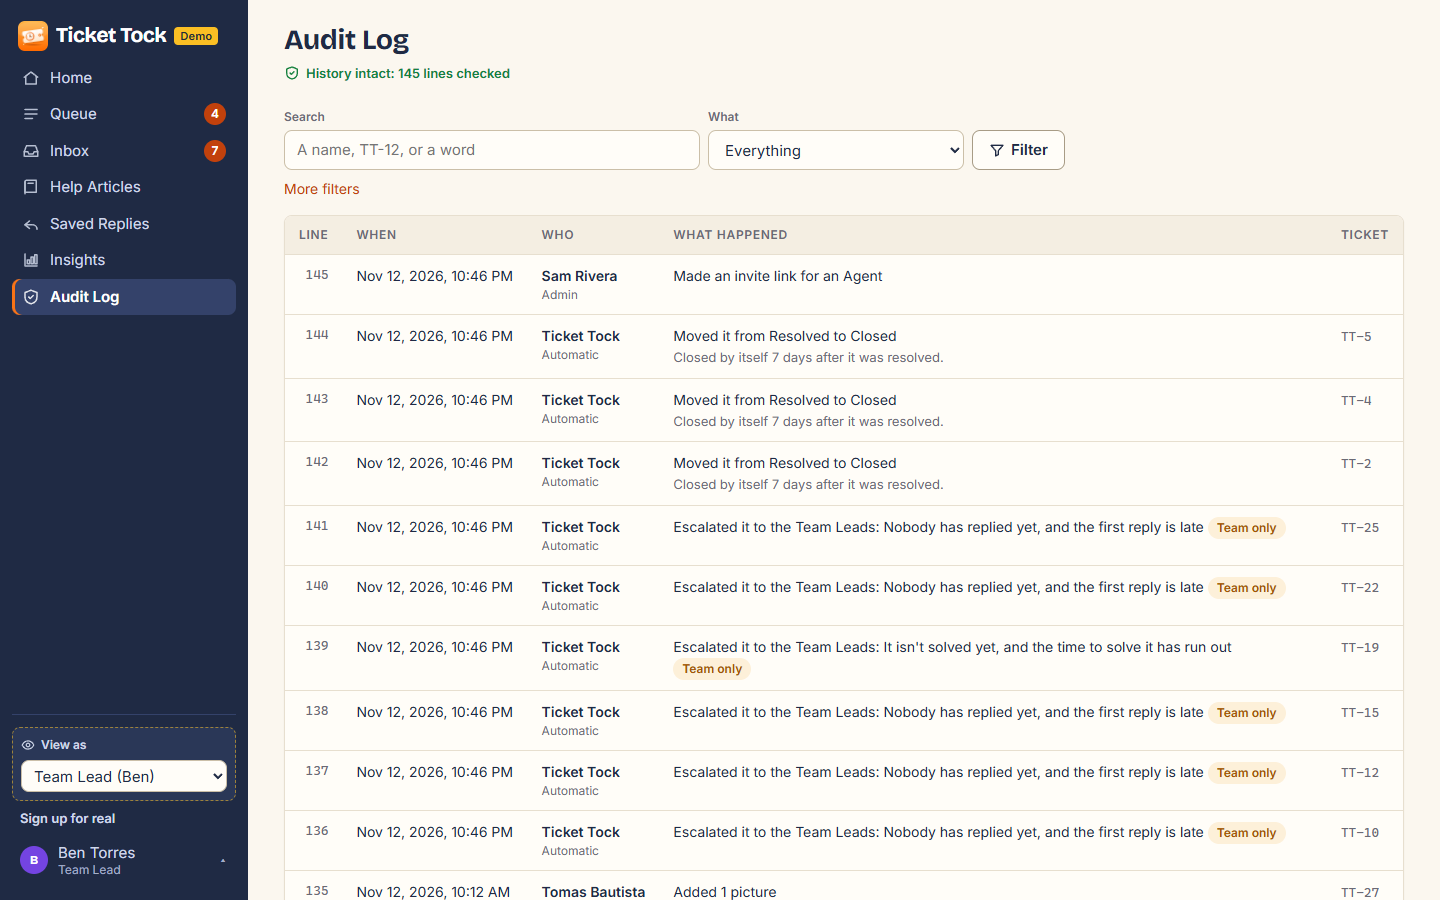
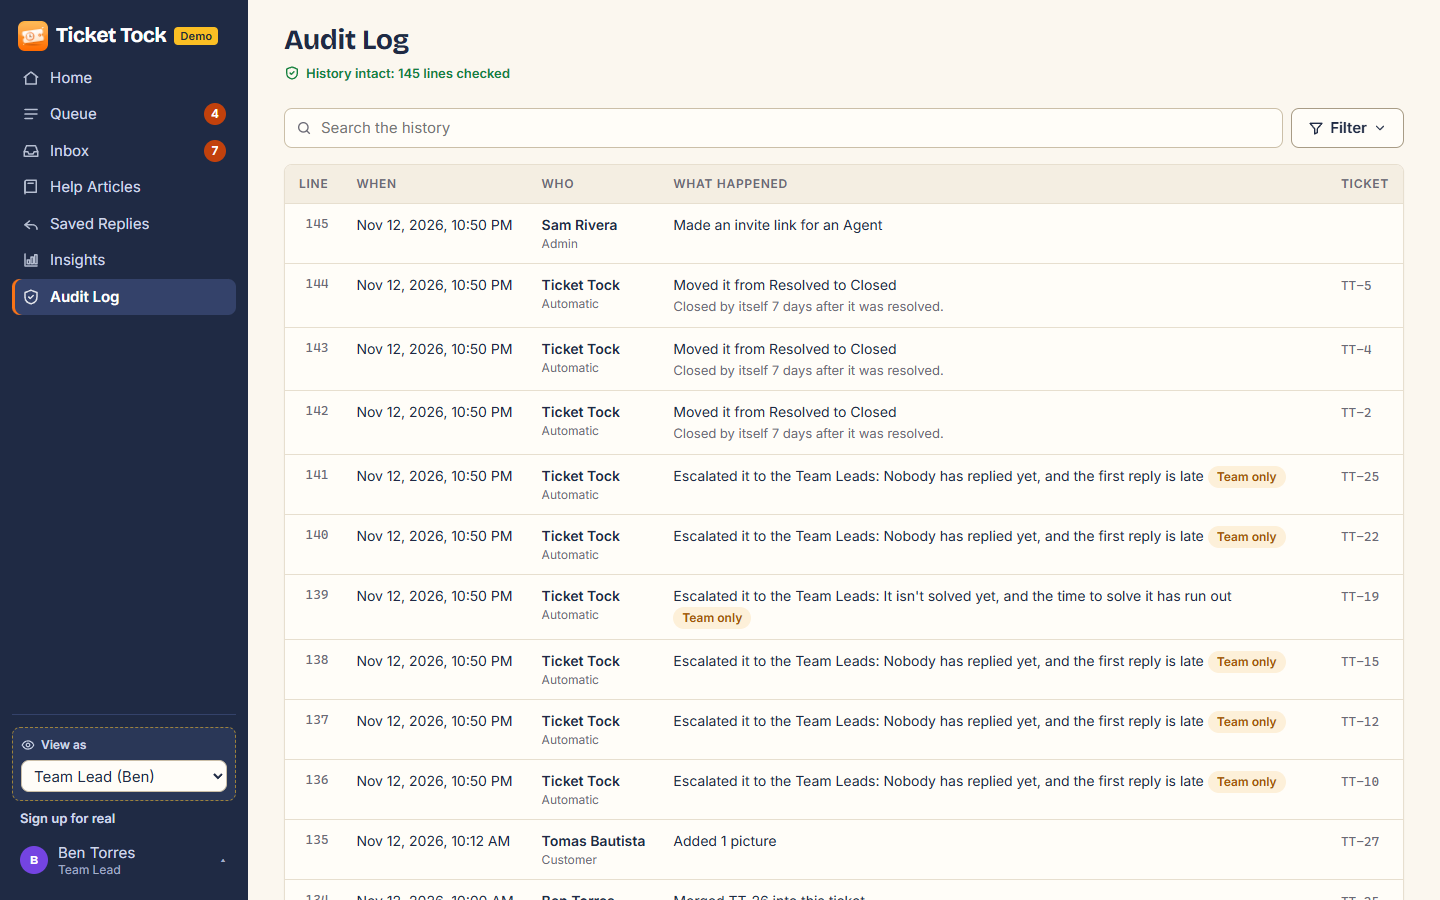
Same pills and search row on every page
- Insights: the period switch (7 / 30 / 90 days) is pill tabs under the title.
- Audit Log: a search box and one Filter dropdown (What, Who, Ticket, From, To)
  with a count, Clear and Apply, replacing What + Filter + More filters.
- The search row is one shared macro (_search.html) used by the Queue and the
  Audit Log. The old segmented and More filters styles are gone.
- New README picture audit-filter.png; all pictures retaken.

diff --git a/tickettock/static/style.css b/tickettock/static/style.css
@@ -621,7 +621,6 @@ a.stat:hover { border-color: var(--accent); }
   display: flex; flex-wrap: wrap; gap: 0.5rem; align-items: flex-end; margin-bottom: 1rem;
 }
 .filters label { display: grid; gap: 0.25rem; font-size: 0.75rem; font-weight: 600; color: var(--muted); flex: 1 1 10rem; max-width: 16rem; }
-.filters .search-label { flex: 2 1 16rem; max-width: 26rem; }
 .filters input, .filters select { font-size: 0.9375rem; font-weight: 400; color: var(--text); }
 .filters .form-actions { flex: none; }
 .pager { display: flex; gap: 0.5rem; align-items: center; justify-content: center; margin-top: 1rem; font-size: 0.875rem; }
@@ -914,11 +913,6 @@ input[type="file"]::file-selector-button {
 
 /* ---------- Insights ---------- */
 
-.segmented { display: inline-flex; border: 1px solid var(--control-border); border-radius: var(--radius); overflow: hidden; background: var(--surface); }
-.segmented a { display: inline-flex; align-items: center; height: 2.25rem; padding: 0 0.875rem; font-size: 0.875rem; font-weight: 600; color: var(--muted); text-decoration: none; }
-.segmented a + a { border-left: 1px solid var(--border); }
-.segmented a:hover { color: var(--text); background: var(--surface-2); }
-.segmented a[aria-current="page"] { background: var(--accent-soft); color: var(--accent-text); }
 .stat-unit { font-size: 1rem; color: var(--muted); }
 
 /* Chart colours: one series = blue; Sent and Solved = blue and orange (dataviz validator, light and dark). */
@@ -1099,13 +1093,8 @@ input[type="time"] { width: 9.5rem; max-width: 100%; }
 .day-pick input:checked + span { background: var(--accent); border-color: var(--accent); color: var(--on-accent); }
 .time-row { display: flex; flex-wrap: wrap; gap: 1rem; }
 
-/* Audit Log: the chain check as a small line under the title; compact filters. */
+/* Audit Log: the chain check as a small line under the title. */
 .chain-line { display: inline-flex; align-items: center; gap: 0.375rem; margin-top: 0.375rem; font-size: 0.8125rem; font-weight: 600; color: var(--positive); }
-.audit-filters { align-items: flex-end; }
-.more-filters { flex-basis: 100%; font-size: 0.875rem; }
-.more-filters summary { list-style: none; display: inline-block; }
-.more-filters summary::-webkit-details-marker { display: none; }
-.filters-more-row { display: flex; flex-wrap: wrap; gap: 0.5rem; margin-top: 0.5rem; }
 .page-head > div:first-child { flex: 1 1 24rem; min-width: 0; }  /* the title shares its row with the main button */
 
 /* An article: the text at a reading width, with a side column (Still stuck?, more articles). */
@@ -1140,7 +1129,7 @@ input[type="time"] { width: 9.5rem; max-width: 100%; }
 
 /* One row: the search box takes the room, then Filter, then the bookmark. */
 .filter-bar { align-items: center; }
-.queue-filters { flex-wrap: nowrap; align-items: center; margin-bottom: 0; }
+.search-row { flex-wrap: nowrap; align-items: center; margin-bottom: 0; }
 .search-field { position: relative; flex: 1; min-width: 0; }
 .search-field svg { position: absolute; left: 0.75rem; top: 50%; transform: translateY(-50%); color: var(--muted); pointer-events: none; }
 .search-field input { width: 100%; padding-left: 2.25rem; }
@@ -1156,10 +1145,13 @@ input[type="time"] { width: 9.5rem; max-width: 100%; }
   background: var(--accent); color: var(--on-accent); font-size: 0.75rem; font-weight: 700;
 }
 .filter-panel {
-  position: absolute; right: 0; top: calc(100% + 0.375rem); z-index: 20; width: min(18rem, calc(100vw - 2rem));
+  position: absolute; right: 0; top: calc(100% + 0.375rem); z-index: 20; width: min(20rem, calc(100vw - 2rem));
   display: grid; gap: 0.75rem; padding: 0.875rem; background: var(--surface);
   border: 1px solid var(--border); border-radius: var(--radius); box-shadow: var(--shadow-lifted);
 }
 .filters .filter-panel label { max-width: none; color: var(--text); }
 .filter-panel select { width: 100%; }
 .filter-panel .form-actions { justify-content: flex-end; }
+/* From and To side by side inside the Filter panel (Audit Log). */
+.filter-dates { display: grid; grid-template-columns: 1fr 1fr; gap: 0.5rem; }
+.filter-panel input { width: 100%; min-width: 0; }

diff --git a/tickettock/templates/tickets/queue.html b/tickettock/templates/tickets/queue.html
@@ -2,6 +2,7 @@
 {% from "_tickets.html" import ticket_card %}
 {% from "_icons.html" import icon %}
 {% from "_macros.html" import csrf %}
+{% from "_search.html" import search_row %}
 {% block title %}Queue - {{ APP_NAME }}{% endblock %}
 {% block content %}
   <div class="page-head">
@@ -18,39 +19,21 @@
   </nav>
 
   <div class="filter-bar">
-  {# One row: the search box, one Filter dropdown (Category and Priority inside), and the bookmark.
-     <details> opens without JavaScript; Enter in the search box searches (the first, unseen button). #}
+  {# One row: the search box, one Filter dropdown (Category and Priority inside), and the bookmark. #}
   {% set on = (1 if category else 0) + (1 if priority else 0) %}
-  <form method="get" class="filters queue-filters" role="search">
-    <button type="submit" class="visually-hidden" tabindex="-1">Search</button>
-    <input type="hidden" name="tab" value="{{ tab }}">
-    <label class="visually-hidden" for="queue-search">Search</label>
-    <div class="search-field">
-      {{ icon('search', 16) }}
-      <input type="search" id="queue-search" name="q" value="{{ q }}" placeholder="Search tickets" title="A number like TT-12, words from the subject, or a customer's name">
-    </div>
-    <details class="filter-menu" data-popover>
-      <summary class="button button-quiet{% if on %} is-on{% endif %}">{{ icon('filter', 16) }} Filter
-        {%- if on %} <span class="filter-count">{{ on }}<span class="visually-hidden"> on</span></span>{% endif %}
-        {{ icon('chevron-down', 14) }}</summary>
-      <div class="filter-panel">
-        <label class="field"><span class="field-label">Category</span>
-          <select name="category">
-            <option value="">All categories</option>
-            {% for row in categories %}<option value="{{ row.id }}"{% if category == row.id|string %} selected{% endif %}>{{ row.name }}</option>{% endfor %}
-          </select></label>
-        <label class="field"><span class="field-label">Priority</span>
-          <select name="priority">
-            <option value="">All priorities</option>
-            {% for key, name in priority_names.items() %}<option value="{{ key }}"{% if priority == key %} selected{% endif %}>{{ name }}</option>{% endfor %}
-          </select></label>
-        <div class="form-actions">
-          {% if on %}<a class="button button-quiet" href="{{ url_for('tickets.queue', tab=tab, q=q or none) }}">Clear</a>{% endif %}
-          <button class="button" type="submit">Apply</button>
-        </div>
-      </div>
-    </details>
-  </form>
+  {% call search_row('queue-search', q, 'Search tickets', on, url_for('tickets.queue', tab=tab, q=q or none),
+                     title="A number like TT-12, words from the subject, or a customer's name", hidden={'tab': tab}) %}
+    <label class="field"><span class="field-label">Category</span>
+      <select name="category">
+        <option value="">All categories</option>
+        {% for row in categories %}<option value="{{ row.id }}"{% if category == row.id|string %} selected{% endif %}>{{ row.name }}</option>{% endfor %}
+      </select></label>
+    <label class="field"><span class="field-label">Priority</span>
+      <select name="priority">
+        <option value="">All priorities</option>
+        {% for key, name in priority_names.items() %}<option value="{{ key }}"{% if priority == key %} selected{% endif %}>{{ name }}</option>{% endfor %}
+      </select></label>
+  {% endcall %}
   {# Save these filters as a view: a bookmark button beside Filter that opens a small panel. #}
   <details class="save-view" data-popover>
     <summary class="button button-quiet icon-only" title="Save these filters as a view">{{ icon('bookmark', 18) }}<span class="visually-hidden">Save these filters as a view</span></summary>

diff --git a/tickettock/templates/audit.html b/tickettock/templates/audit.html
@@ -1,6 +1,7 @@
 {% extends "base.html" %}
 {% from "_history.html" import what %}
 {% from "_icons.html" import icon %}
+{% from "_search.html" import search_row %}
 {% block title %}Audit Log - {{ APP_NAME }}{% endblock %}
 {% block content %}
   <div class="page-head">
@@ -23,34 +24,29 @@
       {{ problem }} Lines from there on can't be trusted. Tell the Admin.</span></p>
   {% endif %}
 
-  {# One search box and the kind of change; the rest folds away under More filters. #}
-  {% set more = shown.who or shown.ticket or shown.since or shown.until %}
-  <form method="get" class="filters audit-filters" role="search">
-    <label class="search-label">Search
-      <input type="search" name="q" value="{{ shown.q }}" placeholder="A name, TT-12, or a word"></label>
-    <label>What
+  {# The same row as the Queue: a search box, then one Filter dropdown with every other filter. #}
+  {% set on = [shown.what, shown.who, shown.ticket, shown.since, shown.until]|select|list|length %}
+  <div class="filter-bar">
+  {% call search_row('audit-search', shown.q, 'Search the history', on, url_for('audit.log', q=shown.q or none),
+                     title='A name, a ticket number like TT-12, or a word') %}
+    <label class="field"><span class="field-label">What</span>
       <select name="what">
         <option value="">Everything</option>
         {% for key, (title, verbs) in groups.items() %}<option value="{{ key }}"{% if shown.what == key %} selected{% endif %}>{{ title }}</option>{% endfor %}
       </select></label>
-    <div class="form-actions">
-      {% if shown.values()|select|list %}<a class="button button-quiet" href="{{ url_for('audit.log') }}">Clear</a>{% endif %}
-      <button class="button button-quiet" type="submit">{{ icon('filter', 16) }} Filter</button>
+    <label class="field"><span class="field-label">Who</span>
+      <select name="who">
+        <option value="">Everyone</option>
+        {% for name in names %}<option{% if shown.who == name %} selected{% endif %}>{{ name }}</option>{% endfor %}
+      </select></label>
+    <label class="field"><span class="field-label">Ticket</span>
+      <input type="text" name="ticket" value="{{ shown.ticket }}" placeholder="TT-12"></label>
+    <div class="filter-dates">
+      <label class="field"><span class="field-label">From</span> <input type="date" name="since" value="{{ shown.since }}"></label>
+      <label class="field"><span class="field-label">To</span> <input type="date" name="until" value="{{ shown.until }}"></label>
     </div>
-    <details class="more-filters"{% if more %} open{% endif %}>
-      <summary class="link-button">More filters</summary>
-      <div class="filters-more-row">
-        <label>Who
-          <select name="who">
-            <option value="">Everyone</option>
-            {% for name in names %}<option{% if shown.who == name %} selected{% endif %}>{{ name }}</option>{% endfor %}
-          </select></label>
-        <label>Ticket <input type="text" name="ticket" value="{{ shown.ticket }}" placeholder="TT-12"></label>
-        <label>From <input type="date" name="since" value="{{ shown.since }}"></label>
-        <label>To <input type="date" name="until" value="{{ shown.until }}"></label>
-      </div>
-    </details>
-  </form>
+  {% endcall %}
+  </div>
 
   {% if events %}
     <div class="table-wrap">

diff --git a/tickettock/templates/_search.html b/tickettock/templates/_search.html
@@ -1,0 +1,27 @@
+{# The search row used by the Queue and the Audit Log: a search box, then one Filter dropdown that
+   holds the page's filters (the caller block), with a count of how many are on, Clear and Apply.
+   <details> opens without JavaScript; Enter in the search box searches (the first, unseen button). #}
+{% from "_icons.html" import icon %}
+{% macro search_row(id, q, placeholder, on, clear_url, title='', hidden={}) %}
+  <form method="get" class="filters search-row" role="search">
+    <button type="submit" class="visually-hidden" tabindex="-1">Search</button>
+    {% for name, value in hidden.items() %}<input type="hidden" name="{{ name }}" value="{{ value }}">{% endfor %}
+    <label class="visually-hidden" for="{{ id }}">Search</label>
+    <div class="search-field">
+      {{ icon('search', 16) }}
+      <input type="search" id="{{ id }}" name="q" value="{{ q }}" placeholder="{{ placeholder }}"{% if title %} title="{{ title }}"{% endif %}>
+    </div>
+    <details class="filter-menu" data-popover>
+      <summary class="button button-quiet{% if on %} is-on{% endif %}">{{ icon('filter', 16) }} Filter
+        {%- if on %} <span class="filter-count">{{ on }}<span class="visually-hidden"> on</span></span>{% endif %}
+        {{ icon('chevron-down', 14) }}</summary>
+      <div class="filter-panel">
+        {{ caller() }}
+        <div class="form-actions">
+          {% if on %}<a class="button button-quiet" href="{{ clear_url }}">Clear</a>{% endif %}
+          <button class="button" type="submit">Apply</button>
+        </div>
+      </div>
+    </details>
+  </form>
+{% endmacro %}

diff --git a/tickettock/templates/insights.html b/tickettock/templates/insights.html
@@ -39,12 +39,13 @@
     <div>
       <h1>Insights</h1>
     </div>
-    <nav class="segmented" aria-label="Period">
-      {% for value, name in periods.items() %}
-        <a href="{{ url_for('insights.index', days=value) }}"{% if value == days %} aria-current="page"{% endif %}>{{ name }}</a>
-      {% endfor %}
-    </nav>
   </div>
+
+  <nav class="tabs" aria-label="Period">
+    {% for value, name in periods.items() %}
+      <a href="{{ url_for('insights.index', days=value) }}"{% if value == days %} aria-current="page"{% endif %}>{{ name }}</a>
+    {% endfor %}
+  </nav>
 
   <div class="stat-tiles">
     <div class="stat"><span class="stat-value">{{ statuses|map(attribute=2)|sum }}</span><span class="stat-label">Open Now</span>

diff --git a/tests/test_tickets.py b/tests/test_tickets.py
@@ -365,3 +365,18 @@ def test_page_titles_have_no_line_under_them(app, team):
             text = response.get_data(as_text=True)
             assert response.status_code == 200 and "<h1" in text, url
             assert not re.search(r'</h1>\s*(</div>\s*)?<p class="lead">', text), url
+
+
+def test_every_page_uses_the_same_pills_and_search_row(app, team):
+    """Like the Queue: pill tabs, and one Filter dropdown beside the search box (Audit Log)."""
+    lead = browser(app, team["lead"])
+    audit = page(lead, "/audit")
+    menu = audit[audit.index('<details class="filter-menu"'):audit.index("</details>", audit.index('<details class="filter-menu"'))]
+    for name in ("what", "who", "ticket", "since", "until"):
+        assert f'name="{name}"' in menu, name  # every filter lives in the one dropdown
+    assert audit.index('name="q"') < audit.index('<details class="filter-menu"') and "More filters" not in audit
+    assert '<span class="filter-count">2<span class="visually-hidden"> on</span></span>' in page(lead, "/audit?what=triage&who=Ben+Torres")
+    insights = page(lead, "/insights")
+    assert '<nav class="tabs" aria-label="Period">' in insights and "segmented" not in insights
+    css = (Path(__file__).parent.parent / "tickettock" / "static" / "style.css").read_text(encoding="utf-8")
+    assert ".segmented" not in css and ".more-filters" not in css

diff --git a/docs/take_screenshots.py b/docs/take_screenshots.py
@@ -49,6 +49,7 @@ PAGES = [
     ("insights.png", "/insights?days=30", "light", DESKTOP, "lead"),
     ("insights-dark.png", "/insights?days=30", "dark", DESKTOP, "lead"),
     ("audit-log.png", "/audit", "light", DESKTOP, "lead"),
+    ("audit-filter.png", "/audit?what=triage", "light", DESKTOP, "lead"),
     ("help.png", "/help", "light", DESKTOP, None),
     ("help-search.png", "/help?q=password", "light", DESKTOP, "customer"),
     ("help-article.png", "/help?q=refund", "light", DESKTOP, "customer"),  # opens the first result
@@ -115,7 +116,7 @@ def main():
             if name == "help-article.png":
                 page.locator(".article-row a").first.click()
                 page.wait_for_load_state("networkidle")
-            if name == "queue-filter.png":
+            if name in ("queue-filter.png", "audit-filter.png"):
                 page.locator(".filter-menu summary").click()
             if name == "new-ticket.png":
                 page.locator("input[name=subject]").press_sequentially("I forgot my password", delay=30)

diff --git a/README.md b/README.md
@@ -75,12 +75,16 @@ A ticket moves through these steps:
 - The code only **adds** lines. It never changes or deletes them (a test checks the code).
 - Each line has a **hash** that includes the line before it, like a chain. If someone edits a line in the
   database, the chain breaks, and the Audit Log shows it. `flask --app tickettock verify-audit` checks it too.
-- Team Leads see the **Audit Log** with filters. Admins can download it as a CSV file.
+- Team Leads see the **Audit Log**: search it, or narrow it with one **Filter** menu (what, who, ticket, dates). Admins can download it as a CSV file.
 - Customers see the history of their own tickets, without the team's internal lines.
 
 | Ticket history | Audit Log |
 |---|---|
 | ![Ticket history](docs/screenshots/ticket-history.png) | ![Audit Log](docs/screenshots/audit-log.png) |
+
+| Audit Log: Filter |
+|---|
+| ![The Audit Log's Filter menu](docs/screenshots/audit-filter.png) |
 
 ### Time Limits (SLA)
 
